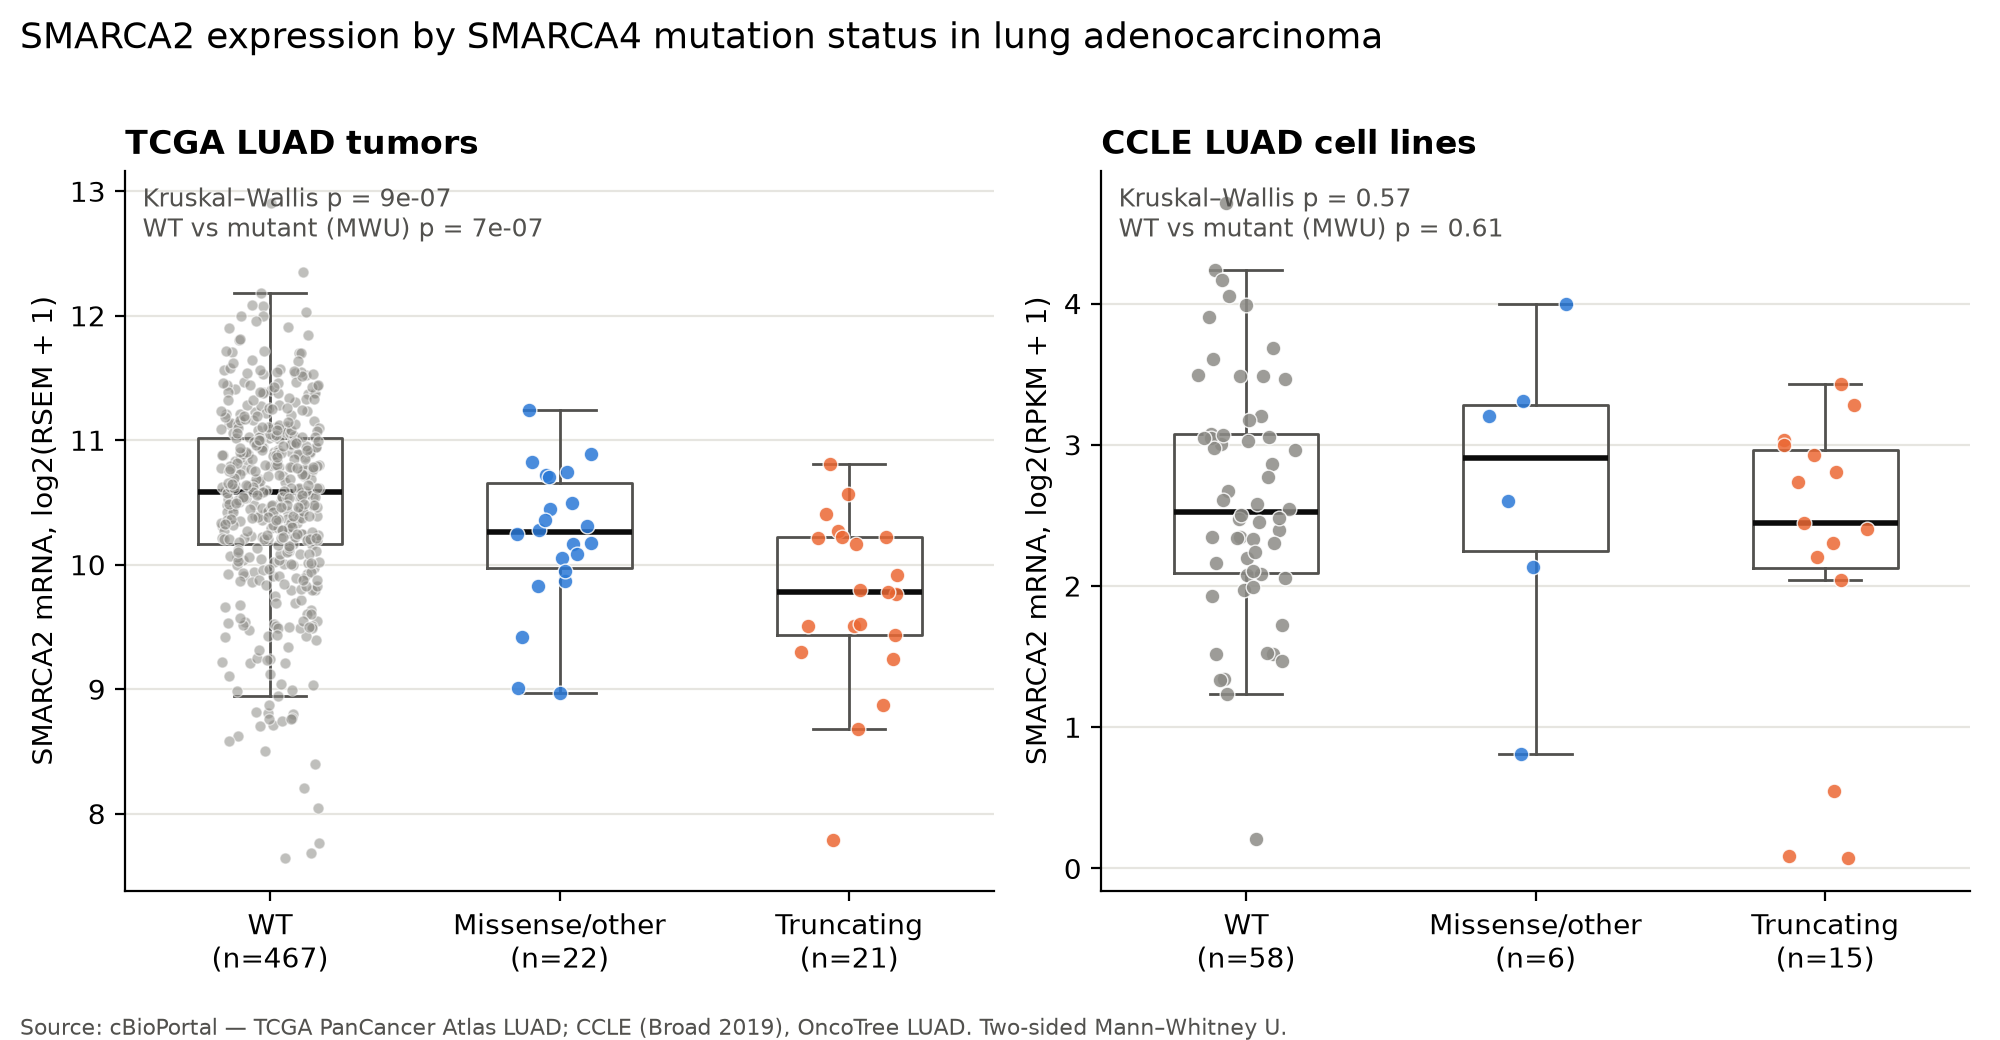
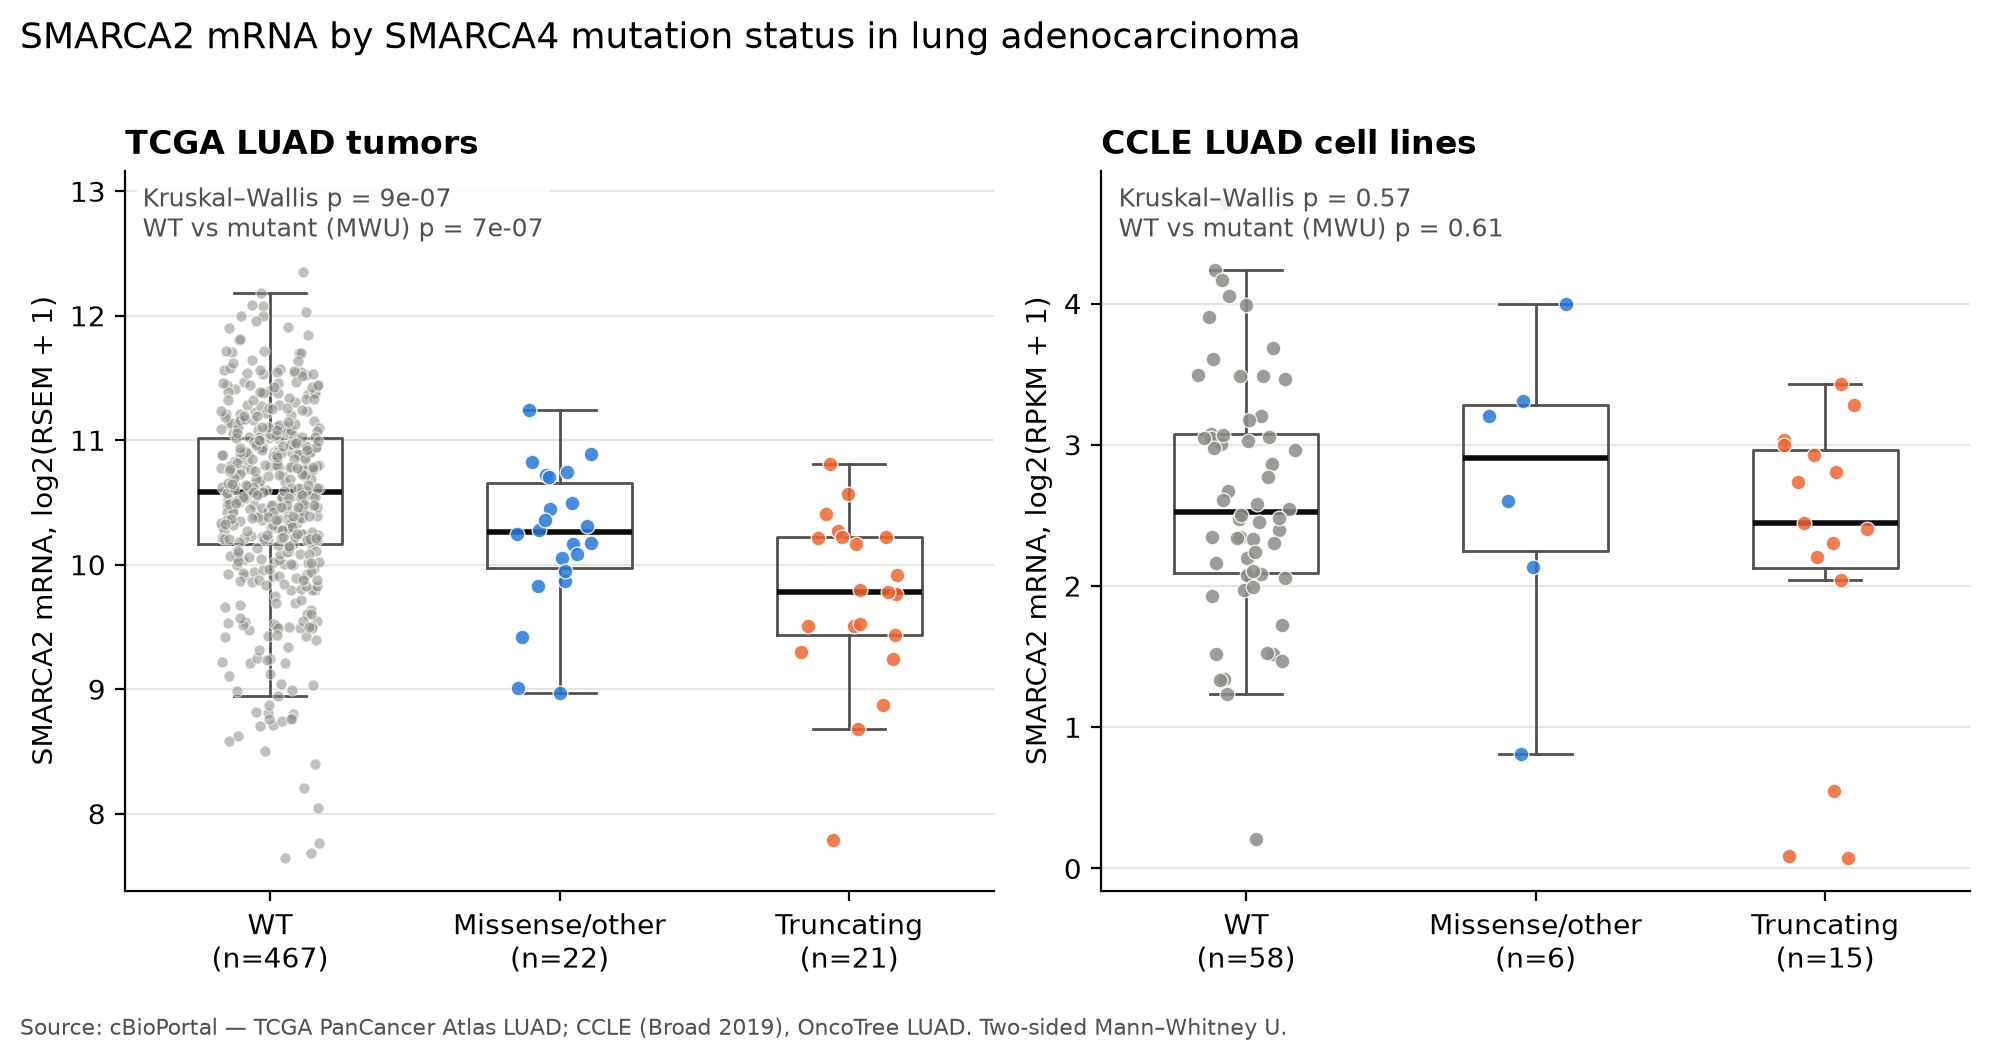
Add SMARCA2 protein analysis (CPTAC LUAD tumors, CCLE LUAD lines)
Claude-Session: https://claude.ai/code/session_01SY75TZjatYtt1iLjyedsc8

Changed region(s): [[0.093, 0.0, 0.682, 0.0615]]

diff --git a/analysis/smarca2_luad/analyze.py b/analysis/smarca2_luad/analyze.py
@@ -6,45 +6,61 @@ from scipy import stats
 
 ORDER = ["WT", "Missense/other", "Truncating"]
 COL = {"WT": "#8c8b86", "Missense/other": "#2a78d6", "Truncating": "#eb6834"}
-sets = [("TCGA LUAD tumors", "tcga_luad.csv", "log2(RSEM + 1)"),
-        ("CCLE LUAD cell lines", "ccle_luad.csv", "log2(RPKM + 1)")]
+ANALYSES = {
+    "mrna": dict(col="smarca2", log=True, unit="mRNA", out="smarca2_by_smarca4_luad",
+                 source="cBioPortal — TCGA PanCancer Atlas LUAD; CCLE (Broad 2019), OncoTree LUAD",
+                 sets=[("TCGA LUAD tumors", "tcga_luad.csv", "log2(RSEM + 1)"),
+                       ("CCLE LUAD cell lines", "ccle_luad.csv", "log2(RPKM + 1)")]),
+    "protein": dict(col="smarca2_protein", log=False, unit="protein", out="smarca2_protein_by_smarca4_luad",
+                    source="CPTAC LUAD (Gillette 2020, UMich TMT); CCLE proteomics (Nusinow 2020), OncoTree LUAD",
+                    sets=[("CPTAC LUAD tumors", "cptac_luad_protein.csv", "log2 TMT ratio"),
+                          ("CCLE LUAD cell lines", "ccle_luad_protein.csv", "log2 TMT ratio (normalized)")]),
+}
 
 def cliffs(a, b):
     u = stats.mannwhitneyu(a, b).statistic
     return 2 * u / (len(a) * len(b)) - 1
 
-rows = []
-fig, axes = plt.subplots(1, 2, figsize=(10, 5.2))
-rng = np.random.default_rng(0)
-for ax, (title, f, ylab) in zip(axes, sets):
-    d = pd.read_csv(f); d["y"] = np.log2(d["smarca2"] + 1)
-    g = {k: d.loc[d.smarca4 == k, "y"].values for k in ORDER}
-    ax.boxplot([g[k] for k in ORDER], positions=range(3), widths=0.5, showfliers=False,
-               medianprops=dict(color="#0b0b0b", lw=2), boxprops=dict(color="#52514e"),
-               whiskerprops=dict(color="#52514e"), capprops=dict(color="#52514e"))
-    for i, k in enumerate(ORDER):
-        ax.scatter(i + rng.uniform(-0.17, 0.17, len(g[k])), g[k], s=16 if len(g[k]) > 100 else 28,
-                   color=COL[k], alpha=0.55 if len(g[k]) > 100 else 0.85, edgecolor="white", lw=0.5, zorder=3)
-    ax.set_xticks(range(3), [f"{k}\n(n={len(g[k])})" for k in ORDER])
-    ax.set_ylabel(f"SMARCA2 mRNA, {ylab}"); ax.set_title(title, loc="left", fontsize=12, fontweight="bold")
-    ax.spines[["top", "right"]].set_visible(False); ax.grid(axis="y", color="#e6e5e0", lw=0.8); ax.set_axisbelow(True)
-    mut = np.concatenate([g["Missense/other"], g["Truncating"]])
-    kw = stats.kruskal(*[g[k] for k in ORDER])
-    comps = [("WT vs any mutant", g["WT"], mut), ("WT vs truncating", g["WT"], g["Truncating"]),
-             ("WT vs missense/other", g["WT"], g["Missense/other"]), ("Missense vs truncating", g["Missense/other"], g["Truncating"])]
-    for name, a, b in comps:
-        p = stats.mannwhitneyu(a, b, alternative="two-sided").pvalue
-        t = stats.ttest_ind(a, b, equal_var=False).pvalue
-        rows.append(dict(dataset=title, comparison=name, n1=len(a), n2=len(b), median1=np.median(a), median2=np.median(b),
-                         log2FC_median=np.median(b) - np.median(a), mannwhitney_p=p, welch_t_p=t, cliffs_delta=cliffs(b, a)))
-    rows.append(dict(dataset=title, comparison="Kruskal-Wallis (3 groups)", mannwhitney_p=kw.pvalue))
-    pa = rows[-5]["mannwhitney_p"]
-    ax.text(0.02, 0.98, f"Kruskal–Wallis p = {kw.pvalue:.2g}\nWT vs mutant (MWU) p = {pa:.2g}",
-            transform=ax.transAxes, va="top", fontsize=9, color="#52514e")
-fig.suptitle("SMARCA2 expression by SMARCA4 mutation status in lung adenocarcinoma", fontsize=13, x=0.01, ha="left")
-fig.text(0.01, 0.005, "Source: cBioPortal — TCGA PanCancer Atlas LUAD; CCLE (Broad 2019), OncoTree LUAD. Two-sided Mann–Whitney U.",
-         fontsize=8, color="#52514e")
-fig.tight_layout(rect=(0, 0.03, 1, 0.97))
-fig.savefig("smarca2_by_smarca4_luad.png", dpi=200)
-res = pd.DataFrame(rows); res.to_csv("stats.csv", index=False)
-pd.set_option("display.width", 200); print(res.round(4).to_string())
+def run(col, log, unit, out, source, sets):
+    rows = []
+    fig, axes = plt.subplots(1, 2, figsize=(10, 5.2))
+    rng = np.random.default_rng(0)
+    for ax, (title, f, ylab) in zip(axes, sets):
+        d = pd.read_csv(f); d["y"] = np.log2(d[col] + 1) if log else d[col]
+        g = {k: d.loc[d.smarca4 == k, "y"].values for k in ORDER}
+        ax.boxplot([g[k] for k in ORDER], positions=range(3), widths=0.5, showfliers=False,
+                   medianprops=dict(color="#0b0b0b", lw=2), boxprops=dict(color="#52514e"),
+                   whiskerprops=dict(color="#52514e"), capprops=dict(color="#52514e"))
+        for i, k in enumerate(ORDER):
+            ax.scatter(i + rng.uniform(-0.17, 0.17, len(g[k])), g[k], s=16 if len(g[k]) > 100 else 28,
+                       color=COL[k], alpha=0.55 if len(g[k]) > 100 else 0.85, edgecolor="white", lw=0.5, zorder=3)
+        ax.set_xticks(range(3), [f"{k}\n(n={len(g[k])})" for k in ORDER])
+        ax.set_ylabel(f"SMARCA2 {unit}, {ylab}"); ax.set_title(title, loc="left", fontsize=12, fontweight="bold")
+        ax.spines[["top", "right"]].set_visible(False); ax.grid(axis="y", color="#e6e5e0", lw=0.8); ax.set_axisbelow(True)
+        mut = np.concatenate([g["Missense/other"], g["Truncating"]])
+        kw = stats.kruskal(*[g[k] for k in ORDER])
+        comps = [("WT vs any mutant", g["WT"], mut), ("WT vs truncating", g["WT"], g["Truncating"]),
+                 ("WT vs missense/other", g["WT"], g["Missense/other"]), ("Missense vs truncating", g["Missense/other"], g["Truncating"])]
+        for name, a, b in comps:
+            p = stats.mannwhitneyu(a, b, alternative="two-sided").pvalue
+            t = stats.ttest_ind(a, b, equal_var=False).pvalue
+            rows.append(dict(dataset=title, comparison=name, n1=len(a), n2=len(b), median1=np.median(a), median2=np.median(b),
+                             log2FC_median=np.median(b) - np.median(a), mannwhitney_p=p, welch_t_p=t, cliffs_delta=cliffs(b, a)))
+        rows.append(dict(dataset=title, comparison="Kruskal-Wallis (3 groups)", mannwhitney_p=kw.pvalue))
+        pa = rows[-5]["mannwhitney_p"]
+        ax.text(0.02, 0.98, f"Kruskal–Wallis p = {kw.pvalue:.2g}\nWT vs mutant (MWU) p = {pa:.2g}",
+                transform=ax.transAxes, va="top", fontsize=9, color="#52514e", zorder=5,
+                bbox=dict(facecolor="white", edgecolor="none", alpha=0.85, pad=2))
+    fig.suptitle(f"SMARCA2 {unit} by SMARCA4 mutation status in lung adenocarcinoma", fontsize=13, x=0.01, ha="left")
+    fig.text(0.01, 0.005, f"Source: {source}. Two-sided Mann–Whitney U.",
+             fontsize=8, color="#52514e")
+    fig.tight_layout(rect=(0, 0.03, 1, 0.97))
+    fig.savefig(f"{out}.png", dpi=200)
+    res = pd.DataFrame(rows); res.to_csv("stats.csv" if out == "smarca2_by_smarca4_luad" else f"stats_{unit}.csv", index=False)
+    pd.set_option("display.width", 200); print(res.to_string(float_format=lambda x: f"{x:.3g}"))
+
+
+if __name__ == "__main__":
+    import sys
+    for key in (sys.argv[1:] or ANALYSES):
+        run(**ANALYSES[key])

diff --git a/analysis/smarca2_luad/fetch.py b/analysis/smarca2_luad/fetch.py
@@ -4,6 +4,8 @@ import pandas as pd
 
 API = "https://www.cbioportal.org/api"
 SMARCA2, SMARCA4 = 6595, 6597  # Entrez IDs
+TRUNC = {"Nonsense_Mutation", "Frame_Shift_Del", "Frame_Shift_Ins", "Splice_Site", "Nonstop_Mutation",
+         "Translation_Start_Site", "Splice_Region"}
 
 def post(path, body):
     req = urllib.request.Request(f"{API}/{path}", data=json.dumps(body).encode(),
@@ -22,27 +24,26 @@ def fetch(study, expr_profile, extra_filter=None):
                 {"entrezGeneIds": [SMARCA4], "sampleListId": f"{study}_all"})
     m = pd.DataFrame([{"sample": d["sampleId"], "type": d["mutationType"], "aa": d["proteinChange"]} for d in muts])
     m.to_csv(f"{study}_smarca4_mutations.csv", index=False)
-    trunc = {"Nonsense_Mutation", "Frame_Shift_Del", "Frame_Shift_Ins", "Splice_Site", "Nonstop_Mutation",
-             "Translation_Start_Site", "Splice_Region"}
     def status(s):
         mm = m[m["sample"] == s]
         if mm.empty: return "WT"
-        return "Truncating" if mm["type"].isin(trunc).any() else "Missense/other"
+        return "Truncating" if mm["type"].isin(TRUNC).any() else "Missense/other"
     df = df[df["sample"].isin(sequenced)].copy()
     df["smarca4"] = df["sample"].map(status)
     return df
 
-tcga = fetch("luad_tcga_pan_can_atlas_2018", "luad_tcga_pan_can_atlas_2018_rna_seq_v2_mrna")
-tcga.to_csv("tcga_luad.csv", index=False)
+if __name__ == "__main__":
+    tcga = fetch("luad_tcga_pan_can_atlas_2018", "luad_tcga_pan_can_atlas_2018_rna_seq_v2_mrna")
+    tcga.to_csv("tcga_luad.csv", index=False)
 
-# CCLE: keep lung adenocarcinoma lines
-samples = get("studies/ccle_broad_2019/samples?projection=SUMMARY&pageSize=10000")
-cd = post("studies/ccle_broad_2019/clinical-data/fetch?clinicalDataType=SAMPLE",
-          {"attributeIds": ["ONCOTREE_CODE", "CANCER_TYPE_DETAILED"], "ids": [s["sampleId"] for s in samples]})
-clin = pd.DataFrame(cd).pivot_table(index="sampleId", columns="clinicalAttributeId", values="value", aggfunc="first")
-luad_lines = set(clin.index[clin["ONCOTREE_CODE"] == "LUAD"])
-ccle = fetch("ccle_broad_2019", "ccle_broad_2019_rna_seq_mrna")
-ccle = ccle[ccle["sample"].isin(luad_lines)]
-ccle.to_csv("ccle_luad.csv", index=False)
-for n, d in [("TCGA", tcga), ("CCLE", ccle)]:
-    print(n, len(d)); print(d["smarca4"].value_counts()); print(d["smarca2"].describe())
+    # CCLE: keep lung adenocarcinoma lines
+    samples = get("studies/ccle_broad_2019/samples?projection=SUMMARY&pageSize=10000")
+    cd = post("studies/ccle_broad_2019/clinical-data/fetch?clinicalDataType=SAMPLE",
+              {"attributeIds": ["ONCOTREE_CODE", "CANCER_TYPE_DETAILED"], "ids": [s["sampleId"] for s in samples]})
+    clin = pd.DataFrame(cd).pivot_table(index="sampleId", columns="clinicalAttributeId", values="value", aggfunc="first")
+    luad_lines = set(clin.index[clin["ONCOTREE_CODE"] == "LUAD"])
+    ccle = fetch("ccle_broad_2019", "ccle_broad_2019_rna_seq_mrna")
+    ccle = ccle[ccle["sample"].isin(luad_lines)]
+    ccle.to_csv("ccle_luad.csv", index=False)
+    for n, d in [("TCGA", tcga), ("CCLE", ccle)]:
+        print(n, len(d)); print(d["smarca4"].value_counts()); print(d["smarca2"].describe())

diff --git a/analysis/smarca2_luad/fetch_protein.py b/analysis/smarca2_luad/fetch_protein.py
@@ -1,0 +1,55 @@
+"""Fetch SMARCA2/SMARCA4 protein (mass spec) + SMARCA4 mutations.
+
+Tumors: CPTAC LUAD (Gillette et al., Cell 2020), UMich proteomics via the `cptac` package
+        (cBioPortal's copy of this study drops SMARCA2/SMARCA4 from the protein matrix).
+Cell lines: CCLE proteomics (Nusinow et al., Cell 2020) via cBioPortal, OncoTree LUAD lines.
+"""
+import warnings
+import pandas as pd
+from fetch import get, post, SMARCA2, SMARCA4, TRUNC
+warnings.filterwarnings("ignore")
+
+NONCODING = {"Silent", "Intron", "3'UTR", "5'UTR", "3'Flank", "5'Flank", "IGR", "RNA", "lincRNA"}
+
+def classify(types):
+    types = set(types) - NONCODING
+    if not types: return "WT"
+    return "Truncating" if types & TRUNC else "Missense/other"
+
+def fetch_cptac():
+    import cptac
+    luad = cptac.Luad()
+    prot = luad.get_proteomics("umich")
+    prot = prot[~prot.index.str.endswith(".N")]  # tumors only
+    def gene(g):  # average isoforms if more than one
+        return prot.loc[:, [c for c in prot.columns if c[0] == g]].mean(axis=1)
+    df = pd.DataFrame({"smarca2_protein": gene("SMARCA2"), "smarca4_protein": gene("SMARCA4")})
+    muts = luad.get_somatic_mutation("harmonized")
+    sequenced = set(muts.index)
+    s4 = muts[muts["Gene"] == "SMARCA4"]
+    s4[["Mutation", "Location"]].to_csv("cptac_luad_smarca4_mutations.csv")
+    df = df[df.index.isin(sequenced)].dropna(subset=["smarca2_protein"])
+    df["smarca4"] = [classify(s4.loc[[s], "Mutation"]) if s in s4.index else "WT" for s in df.index]
+    return df.rename_axis("sample").reset_index()
+
+def fetch_ccle():
+    study = "ccle_broad_2019"
+    samples = get(f"studies/{study}/samples?projection=SUMMARY&pageSize=10000")
+    cd = post(f"studies/{study}/clinical-data/fetch?clinicalDataType=SAMPLE",
+              {"attributeIds": ["ONCOTREE_CODE"], "ids": [s["sampleId"] for s in samples]})
+    luad_lines = {d["sampleId"] for d in cd if d["value"] == "LUAD"}
+    sequenced = set(get(f"sample-lists/{study}_sequenced")["sampleIds"])
+    expr = post(f"molecular-profiles/{study}_protein_quantification/molecular-data/fetch?projection=SUMMARY",
+                {"entrezGeneIds": [SMARCA2, SMARCA4], "sampleListId": f"{study}_all"})
+    df = (pd.DataFrame([{"sample": d["sampleId"], "gene": d["entrezGeneId"], "v": d["value"]} for d in expr])
+          .pivot(index="sample", columns="gene", values="v")
+          .rename(columns={SMARCA2: "smarca2_protein", SMARCA4: "smarca4_protein"}).reset_index())
+    df = df[df["sample"].isin(luad_lines & sequenced)].dropna(subset=["smarca2_protein"])
+    m = pd.read_csv(f"{study}_smarca4_mutations.csv")  # written by fetch.py
+    df["smarca4"] = [classify(m.loc[m["sample"] == s, "type"]) for s in df["sample"]]
+    return df
+
+if __name__ == "__main__":
+    for name, d, out in [("CPTAC", fetch_cptac(), "cptac_luad_protein.csv"), ("CCLE", fetch_ccle(), "ccle_luad_protein.csv")]:
+        d.to_csv(out, index=False)
+        print(name, len(d), d["smarca4"].value_counts().to_dict())

diff --git a/analysis/smarca2_luad/README.md b/analysis/smarca2_luad/README.md
@@ -1,7 +1,18 @@
 # SMARCA2 expression by SMARCA4 mutation status — LUAD
 
-- `fetch.py` pulls data from the cBioPortal API (TCGA PanCancer Atlas LUAD; CCLE Broad 2019, OncoTree `LUAD` lines only).
-- `analyze.py` makes `smarca2_by_smarca4_luad.png` and writes `stats.csv`.
+| Level | Tumors | Cell lines | Figure / stats |
+|---|---|---|---|
+| mRNA | TCGA PanCancer Atlas LUAD (cBioPortal) | CCLE Broad 2019 (cBioPortal) | `smarca2_by_smarca4_luad.png`, `stats.csv` |
+| Protein | CPTAC LUAD, Gillette 2020, UMich TMT (`cptac` package) | CCLE proteomics, Nusinow 2020 (cBioPortal) | `smarca2_protein_by_smarca4_luad.png`, `stats_protein.csv` |
 
-SMARCA4 status: WT = no SMARCA4 mutation in a sequenced sample; Truncating = nonsense, frameshift, splice or start/stop loss; Missense/other = any other mutation.
-Expression is log2(RSEM+1) for TCGA and log2(RPKM+1) for CCLE. Tests are two-sided Mann–Whitney U (Welch t in the CSV too), plus Kruskal–Wallis across the three groups.
+Cell lines are restricted to OncoTree `LUAD`. TCGA RPPA has no SMARCA2 antibody, and cBioPortal's copy of CPTAC LUAD
+drops SMARCA2/SMARCA4 from its protein matrix, which is why the CPTAC data come from the `cptac` package.
+
+SMARCA4 status: WT = sequenced, no coding SMARCA4 mutation; Truncating = nonsense, frameshift, splice or start/stop loss;
+Missense/other = any other coding mutation. Tests: two-sided Mann–Whitney U (Welch t in the CSVs), Kruskal–Wallis across
+the three groups, Cliff's delta (negative = lower in the second group).
+
+```
+pip install pandas scipy matplotlib cptac
+python3 fetch.py && python3 fetch_protein.py && python3 analyze.py   # or: analyze.py mrna | protein
+```
